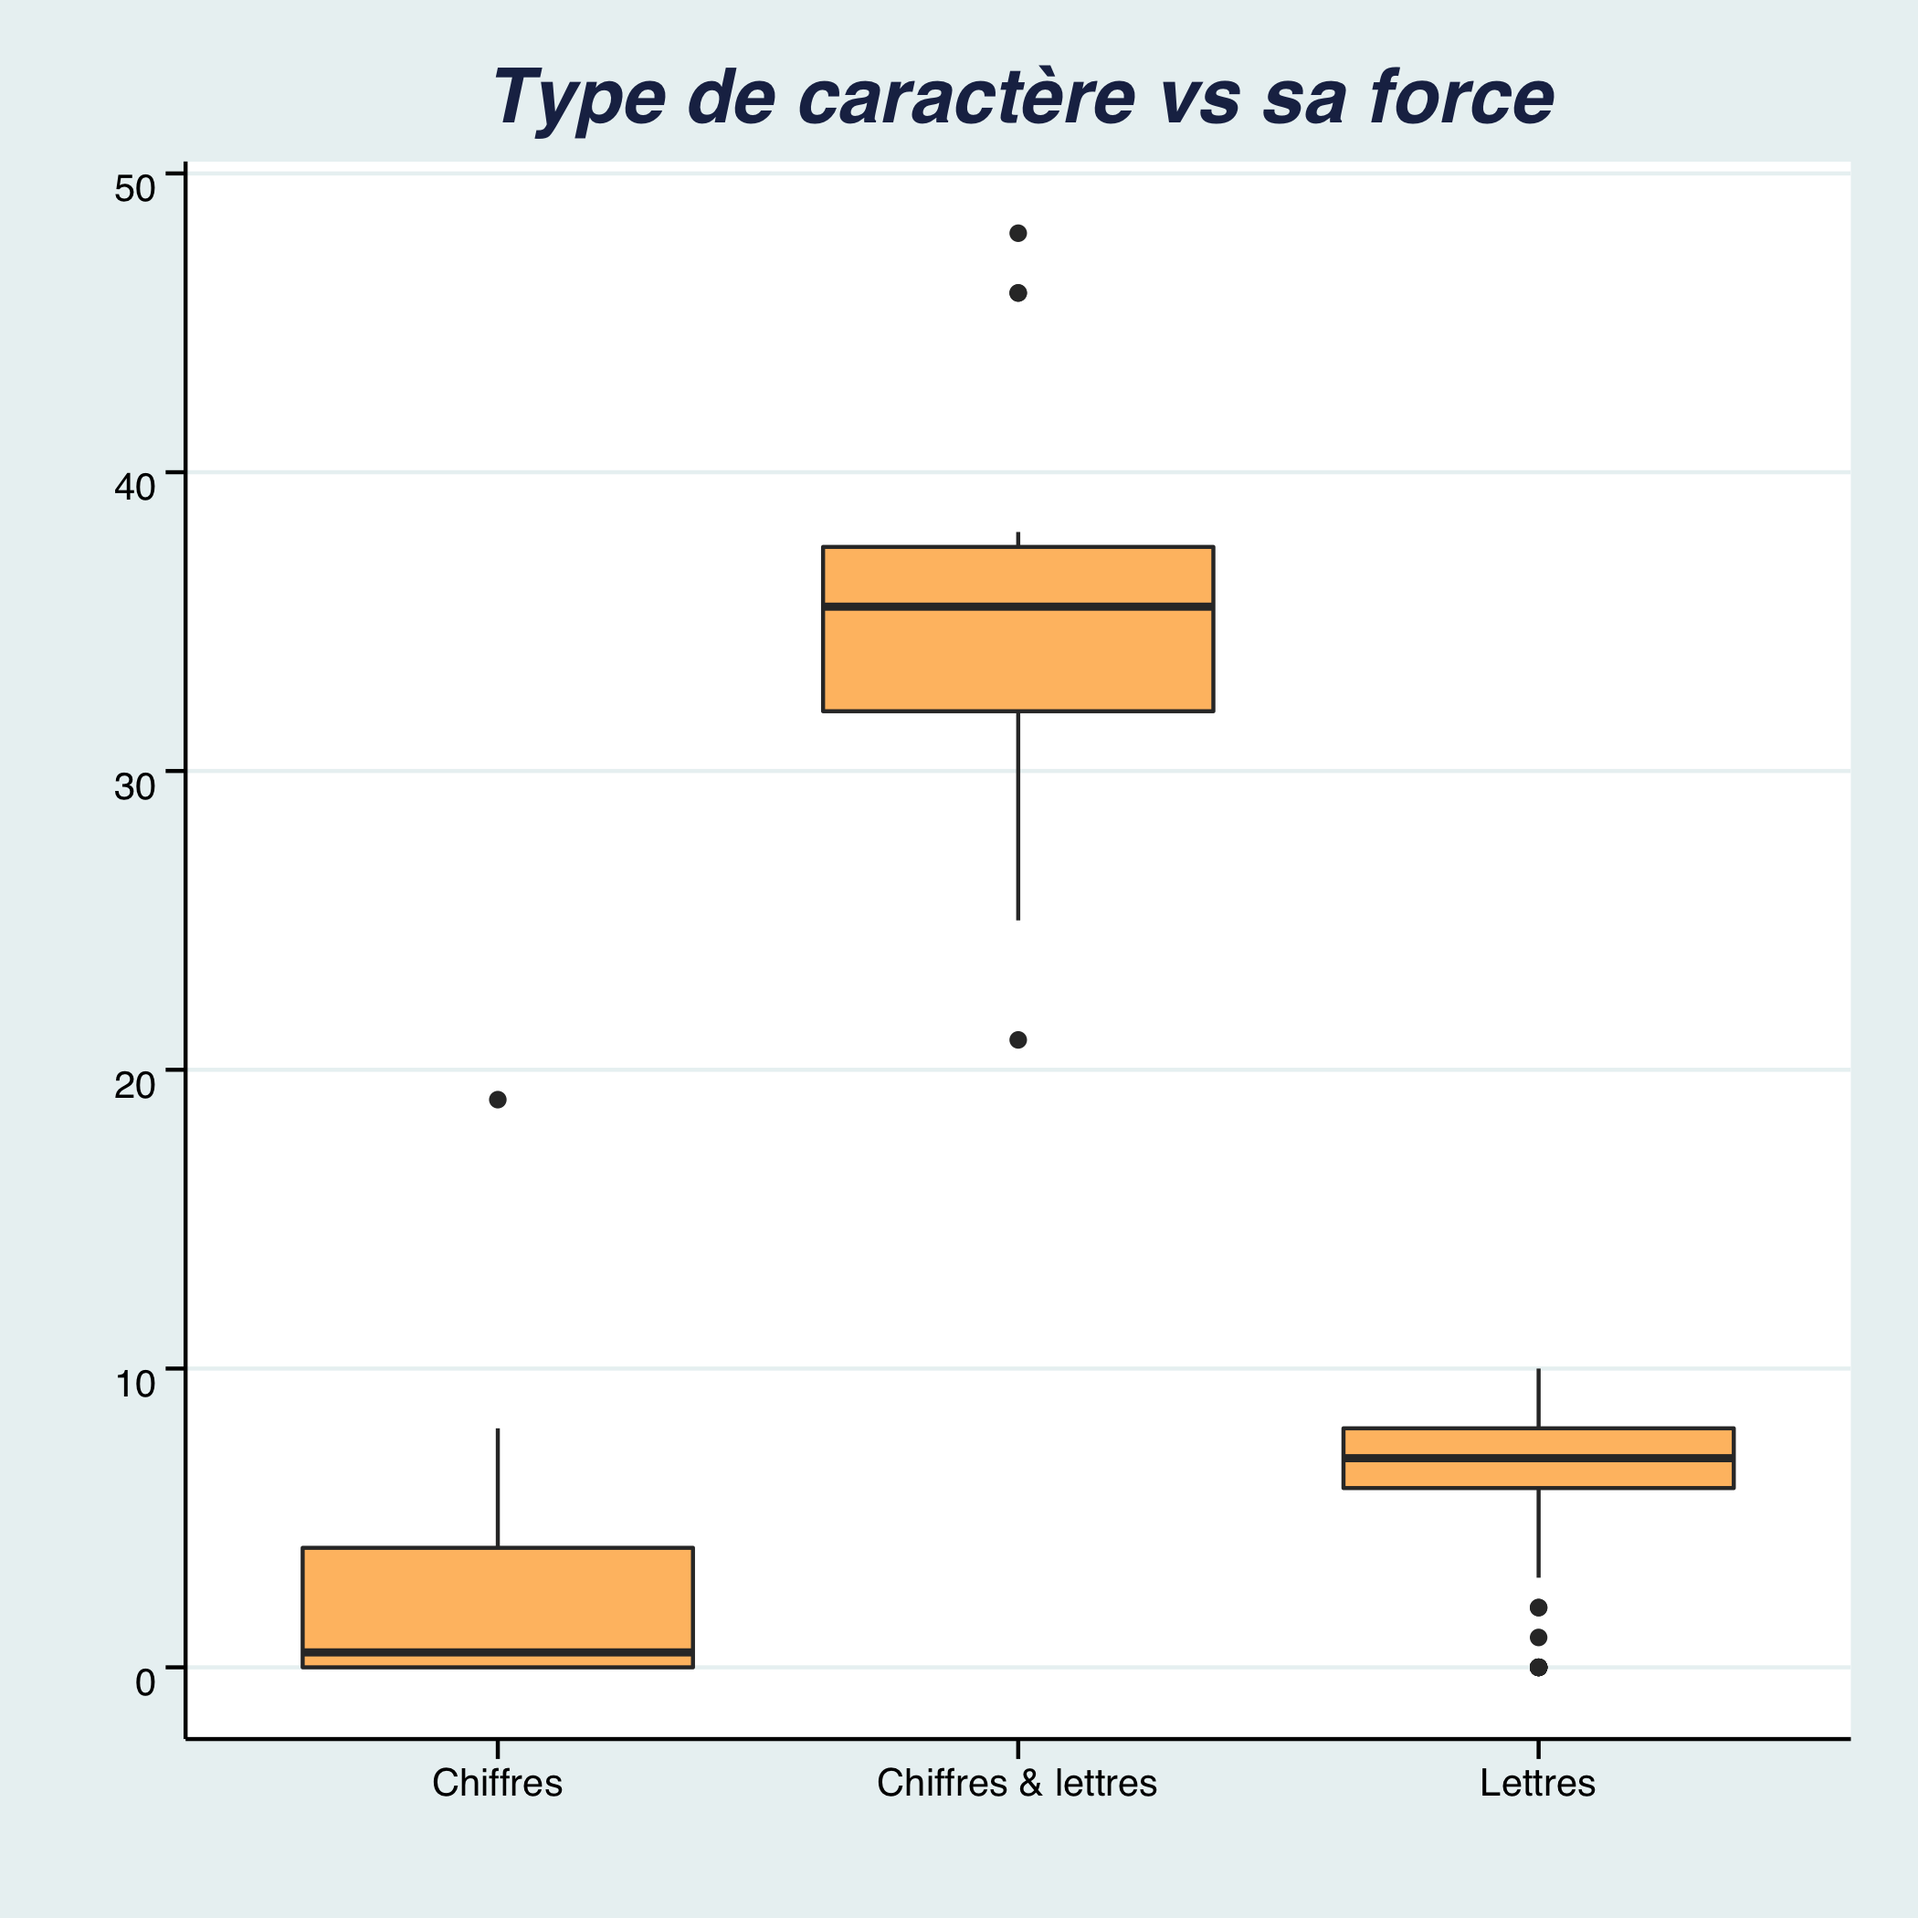
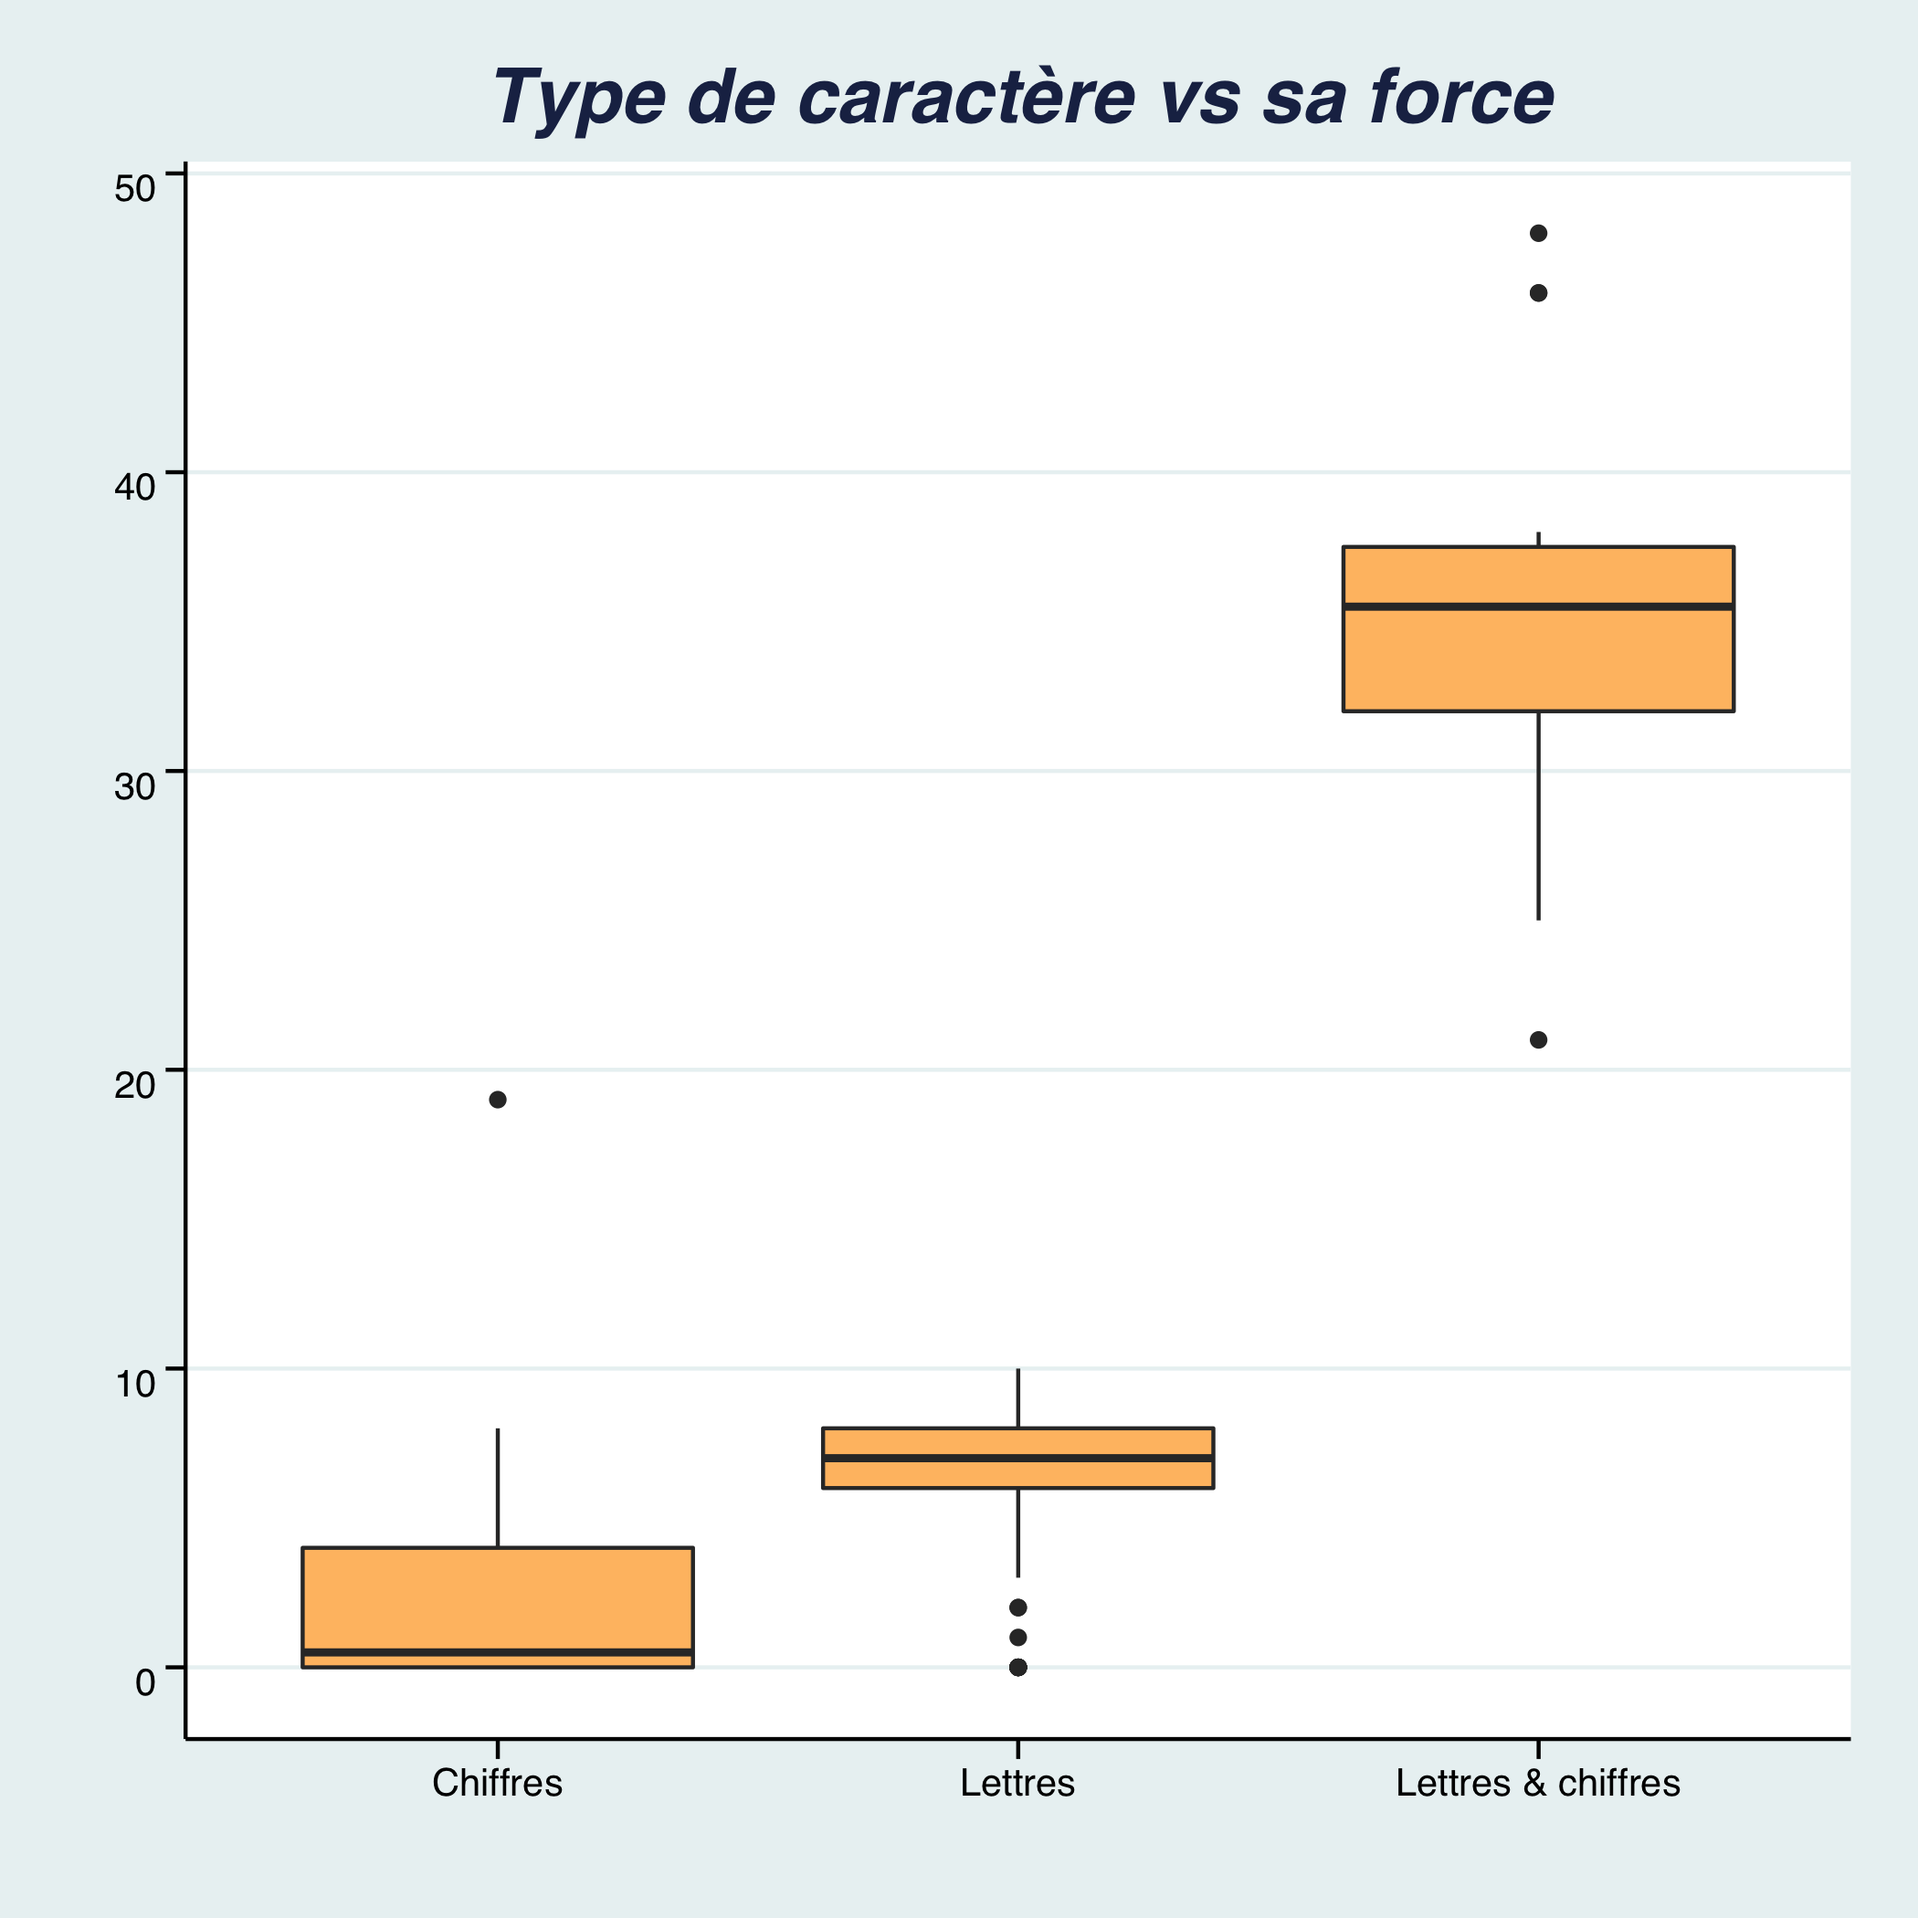
oral_fin

diff --git a/index.html b/index.html
@@ -101,7 +101,7 @@ count_cat &lt;- dat %&gt;%
 
 class: center
 
-&lt;img src="img/graph3_5.png" width="700" height="600" /&gt;
+&lt;img src="img/graph2.png" width="700" height="600" /&gt;
 
 ---
 
